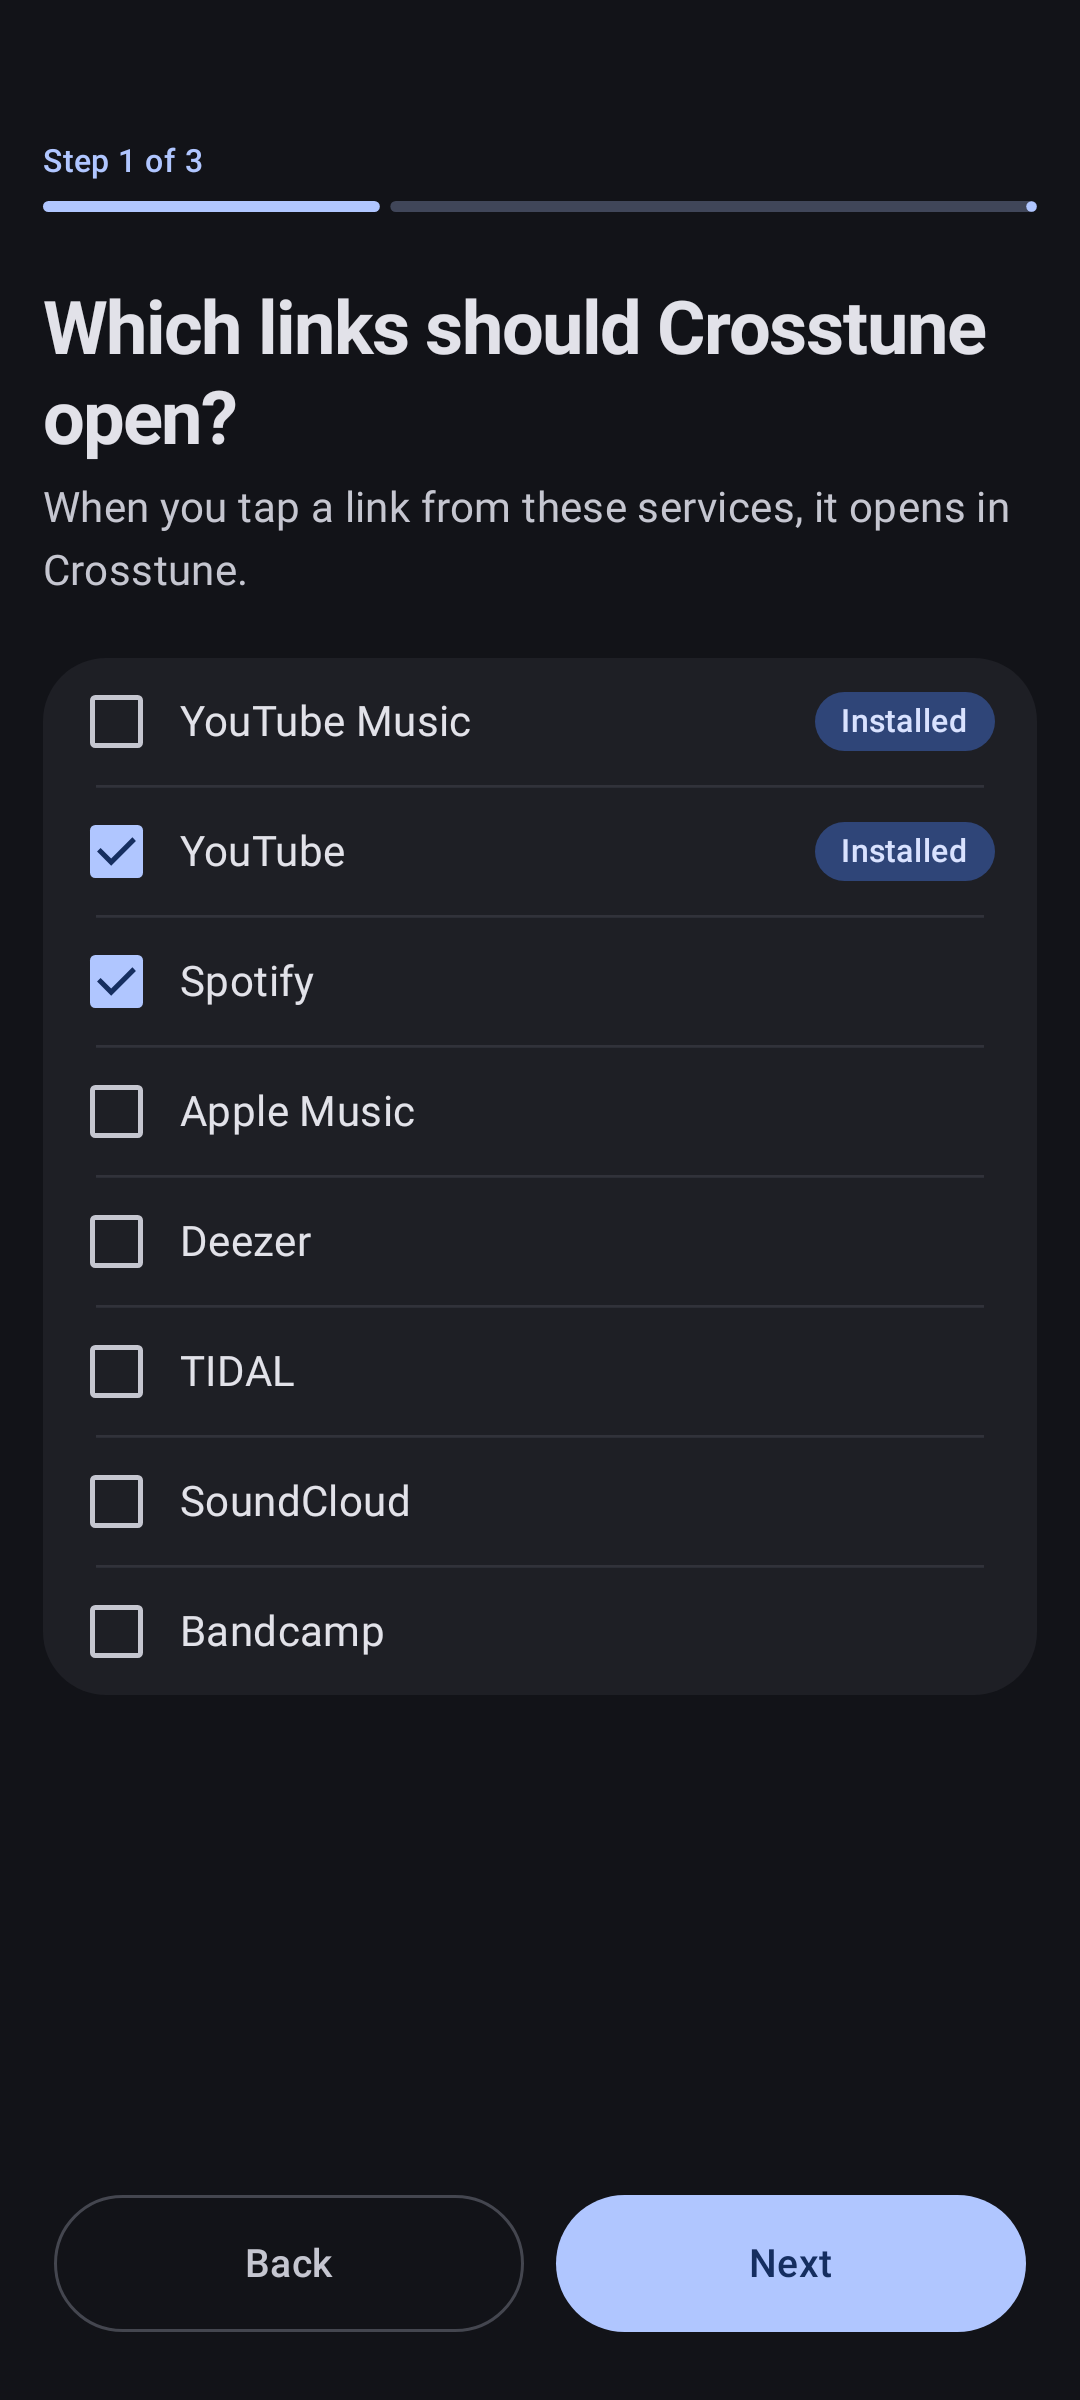
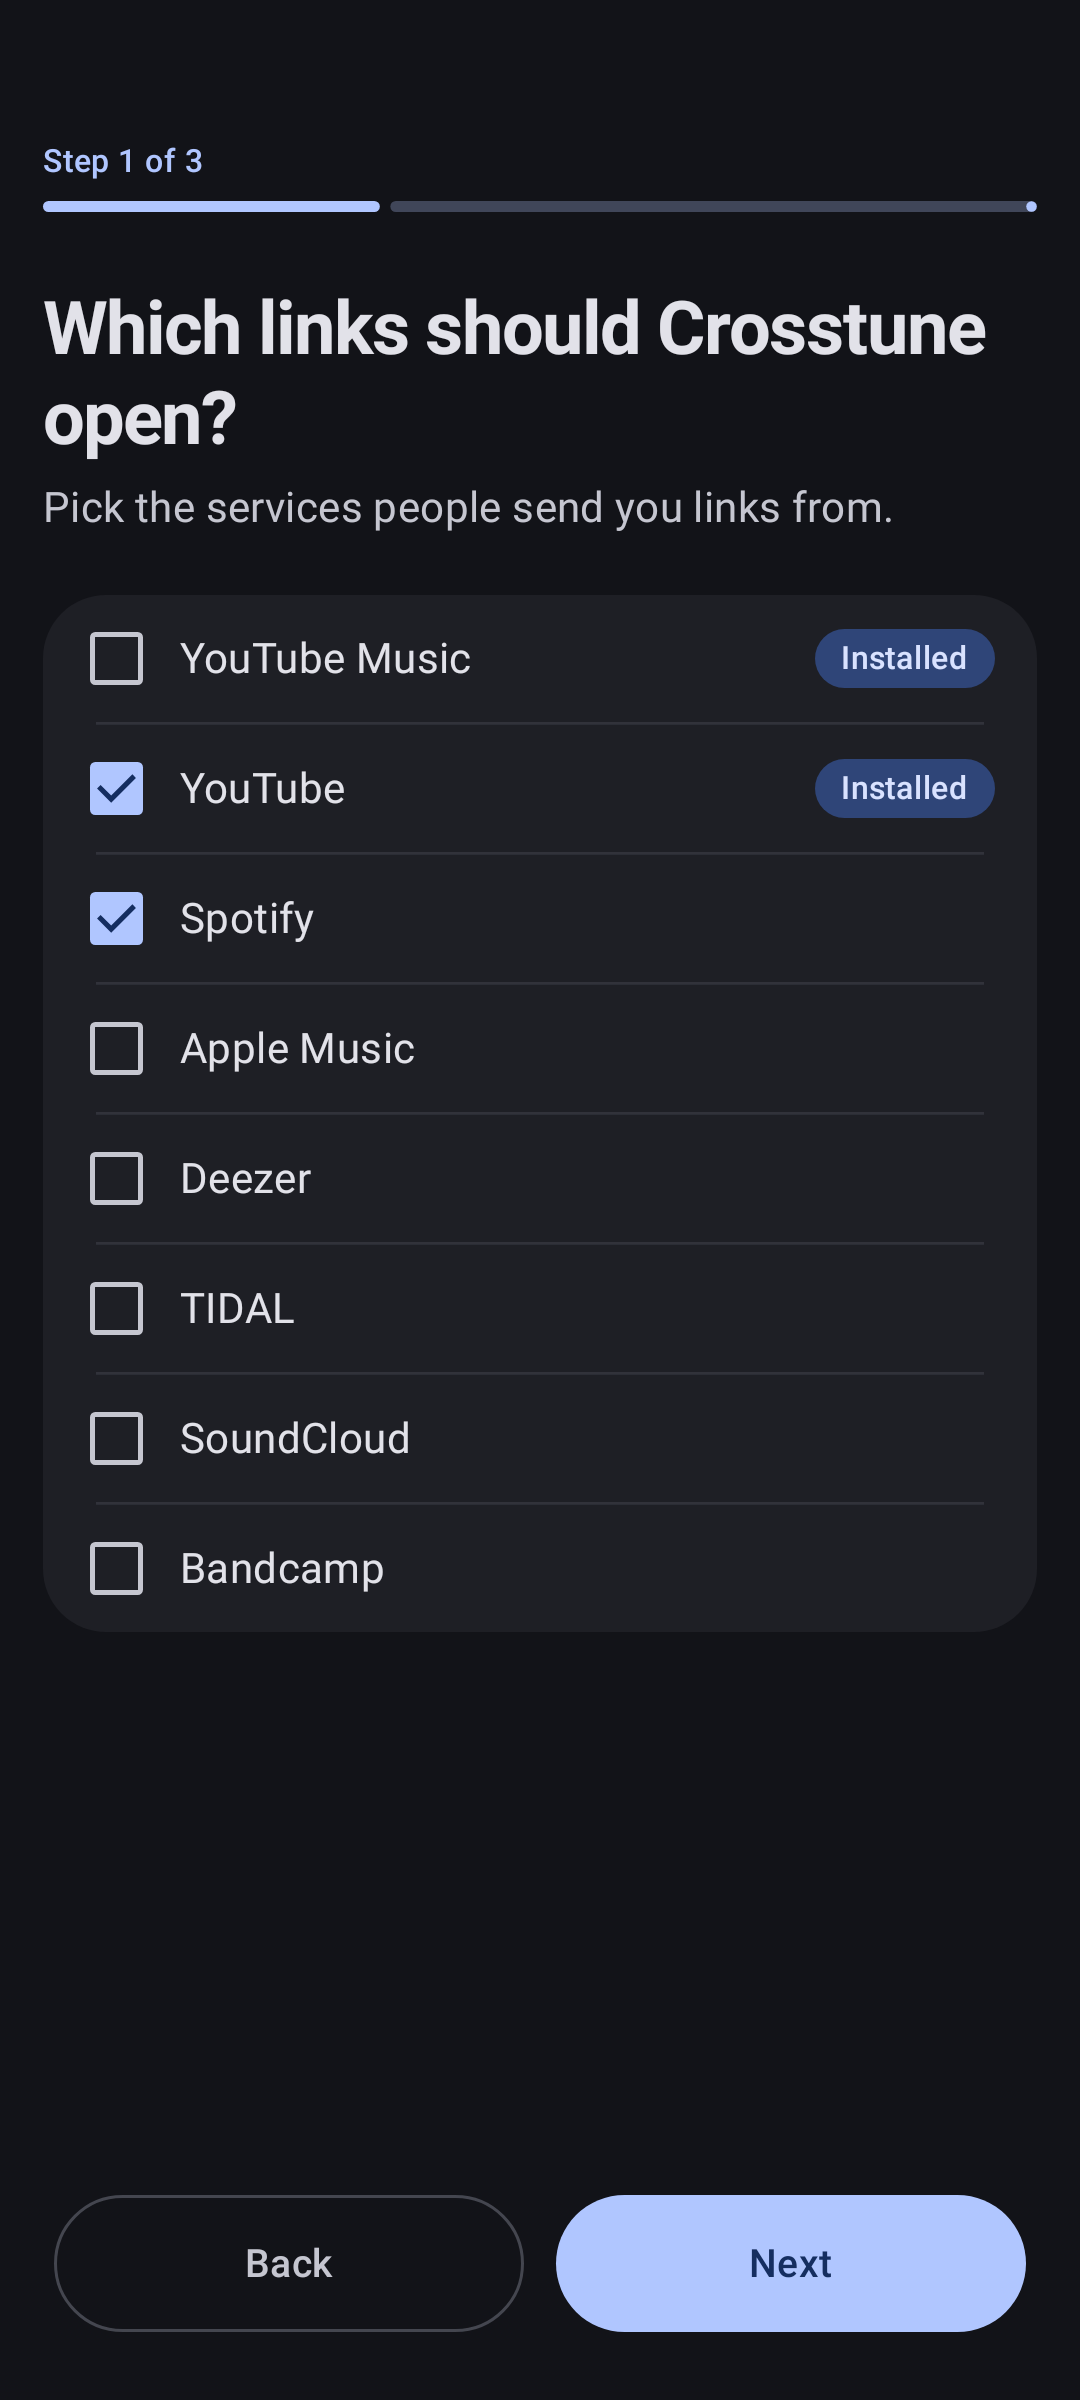
Make the wording sound natural instead of like a manual
- Main screen tagline: "Open any music link in your favorite app."
- Setup and settings talk to the user plainly ("Pick the services
  people send you links from.", "Pick the app you listen in.") instead
  of describing the app in the third person.
- Settings list header: "Open links from".
- README intro matches the tagline.
- Re-render the screenshots.

Claude-Session: https://claude.ai/code/session_01UwmGSws7oHHVCmfWNCybLv

Changed region(s): [[0.0306, 0.1875, 0.8861, 0.6875], [0.7333, 0.25, 0.9167, 0.375]]

diff --git a/README.md b/README.md
@@ -1,8 +1,8 @@
 # Crosstune
 
-**Crosstune opens music links in the music app you use.**
+**Open any music link in your favorite app.**
 
-Example: a friend sends you a Spotify link, but you use YouTube Music. Tap the link and Crosstune opens the same song in YouTube Music. It works for songs, albums, artists and playlists.
+A friend sends you a Spotify link, but you use YouTube Music? Tap it and the same song opens in YouTube Music. Works with songs, albums, artists and playlists.
 
 <p align="center">
   <img src="screenshots/home.png" alt="A Spotify link resolved to its song, ready to open in YouTube Music" width="200">
@@ -21,7 +21,7 @@ Example: a friend sends you a Spotify link, but you use YouTube Music. Tap the l
 
 ## 🚀 Set up (1 minute)
 
-1. Open Crosstune. Choose which services' links it should open, and which app you listen in.
+1. Open Crosstune. Pick the services people send you links from, and the app you listen in.
 2. Tap **Open link settings**, then **Add link**, and turn on the links Crosstune lists.
 3. Done. Now tap a music link anywhere and it opens in your app.
 
